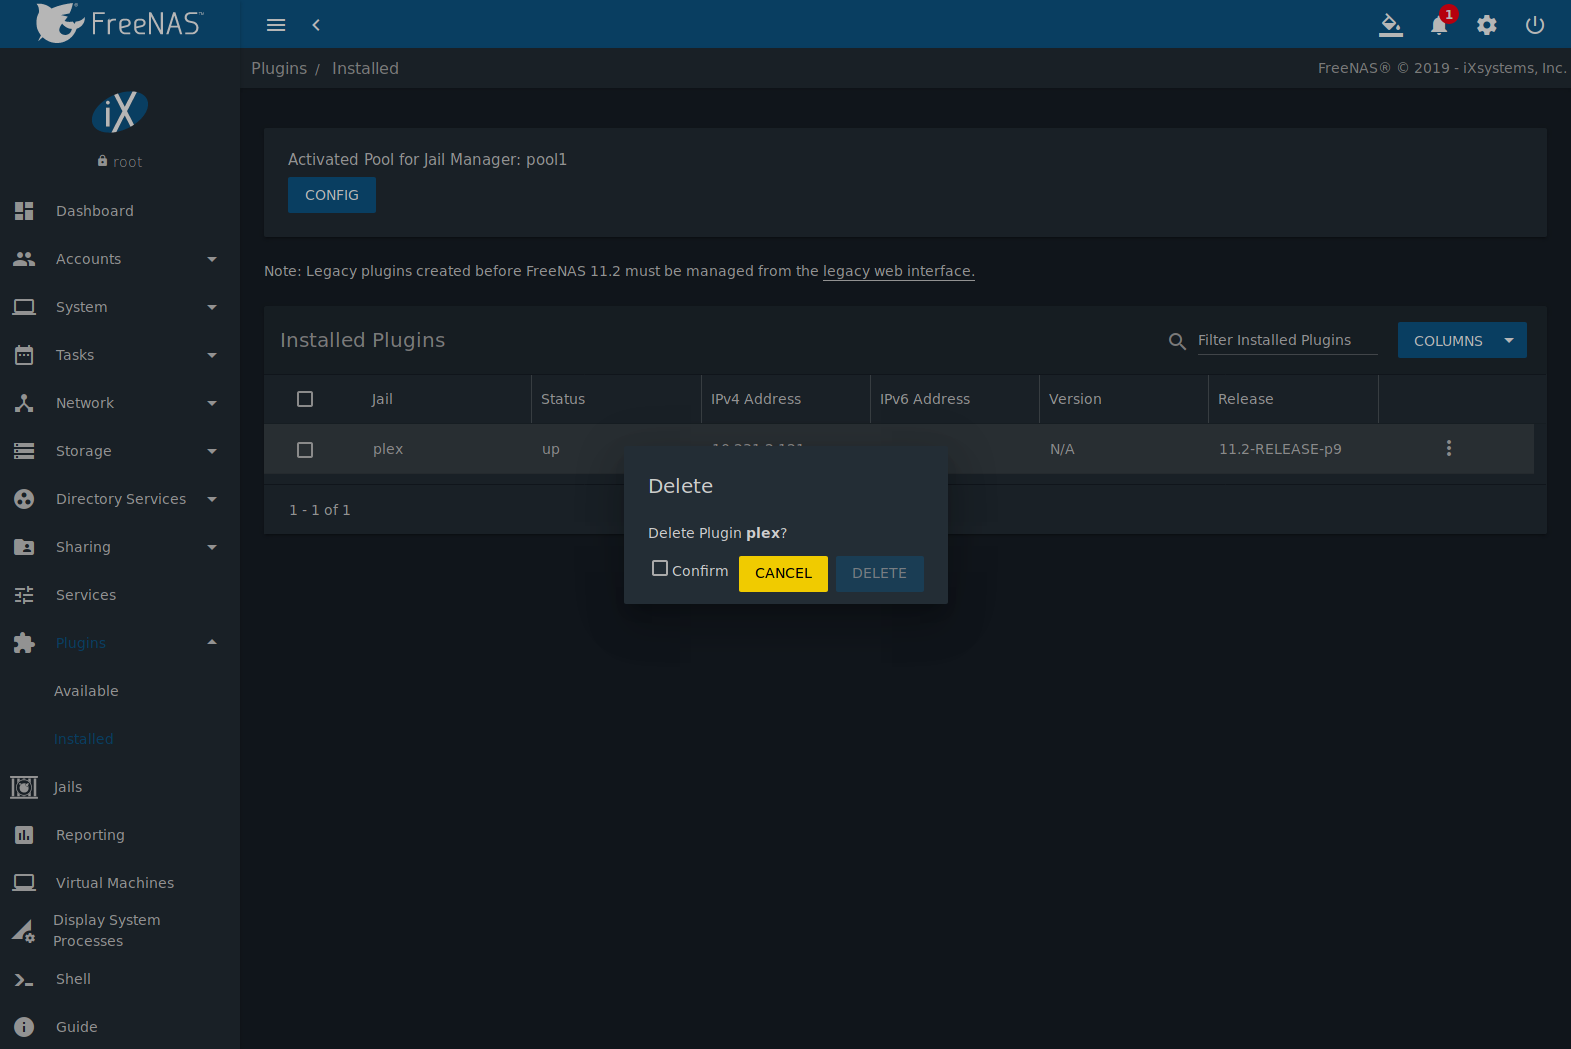
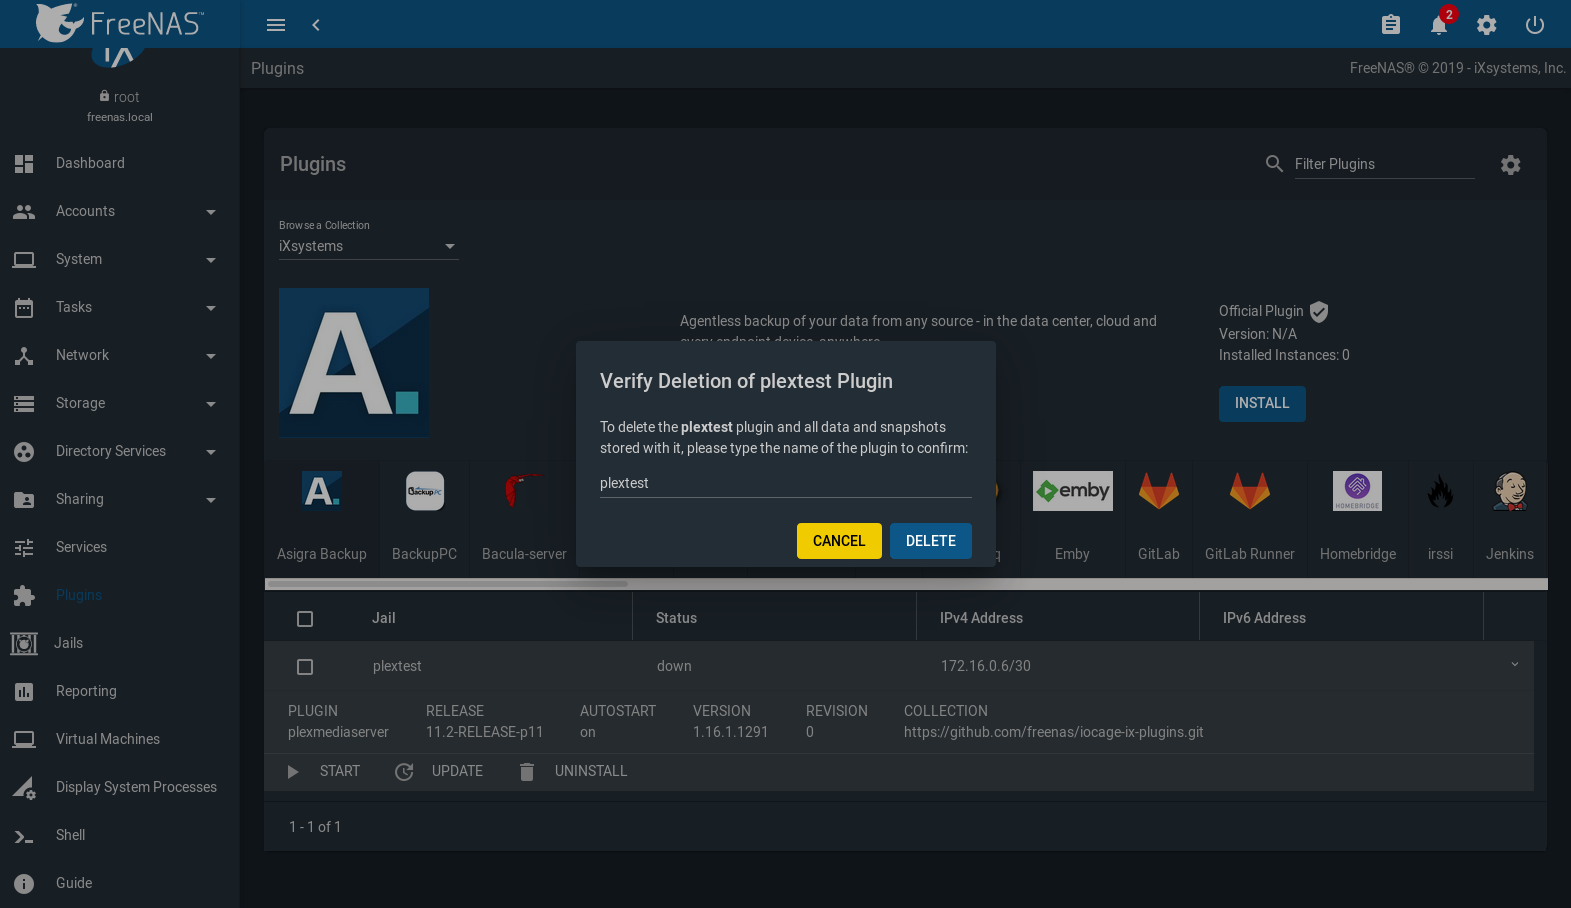
NAS-102082: Plugin delete update - Update process to delete a plugin. - Add intro entry. - Update related image. - HTML build test: no issues.

diff --git a/userguide/plugins.rst b/userguide/plugins.rst
@@ -192,8 +192,8 @@ To update or upgrade the plugin jail operating system, see
 
 .. _Deleting Plugins:
 
-Delete
-------
+Deleting Plugins
+----------------
 
 Installing a plugin creates an associated jail. Deleting a plugin
 deletes the associated jail because it is no longer required. This
@@ -201,14 +201,15 @@ means all **datasets or snapshots that are associated with the plugin
 are also deleted.** Make sure to back up any important data from the
 plugin **before** deleting it.
 
-:numref:`Figure %s <deleting_installed_plugin_fig>` shows an example of
-deleting the *plex* plugin by opening the |ui-options| and clicking
-:guilabel:`DELETE`. A pop-up message asks to verify deleting the
-plugin. **This is the only warning.** The plugin, associated
-jail, dataset, and snapshots are permanently deleted when the action is
-confirmed by entering the plugin name in the text field and clicking
-:guilabel:`DELETE`.
+The plugin jail must be *down* before it can be uninstalled. Expand the
+plugin entry and click :guilabel:`STOP` to shut down the plugin.
 
+:numref:`Figure %s <deleting_installed_plugin_fig>` shows an example of
+deleting the *plex* plugin by expanding the plugin entry and clicking
+:guilabel:`UNINSTALL`. A two-step dialog opens to confirm the delete
+action. **This is the only warning.** Confirm the action, enter the
+plugin name, and click :guilabel:`DELETE` to remove the plugin and the
+associated jail, dataset, and snapshots.
 
 .. _deleting_installed_plugin_fig:
 

diff --git a/userguide/intro.rst b/userguide/intro.rst
@@ -333,9 +333,9 @@ These screen options have changed:
 * The :guilabel:`Expose zilstat via SNMP` checkbox has been added to
   :menuselection:`Services --> SNMP`.
 
-* The :guilabel:`DELETE` popup in
-  :menuselection:`Plugins`
-  has been expanded with an additional text confirmation.
+* An additional text confirmation has been added to the
+  :guilabel:`UNINSTALL` popup in
+  :menuselection:`Plugins`.
 
 * iocage jails can now be restarted from the |web-ui| in
   :menuselection:`Jails -->` |ui-options| :menuselection:`--> Restart`.
